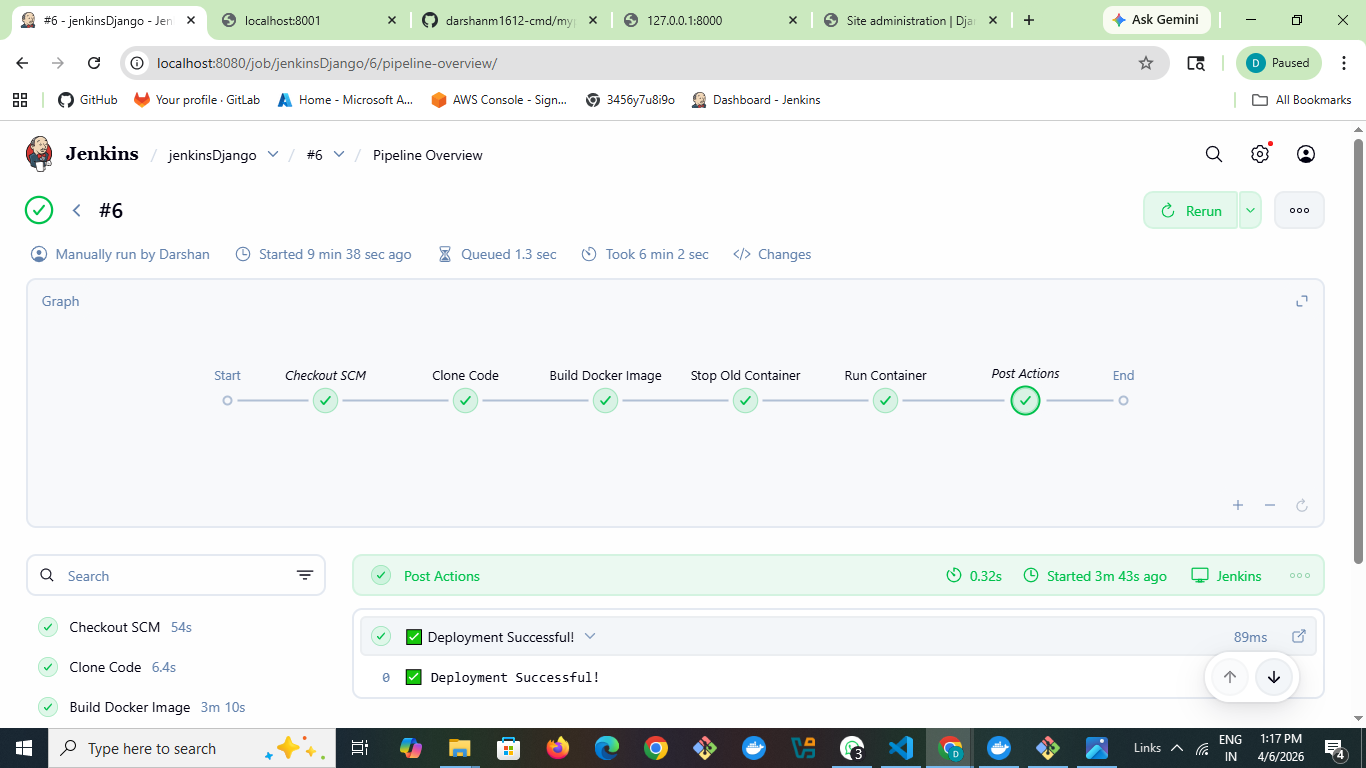
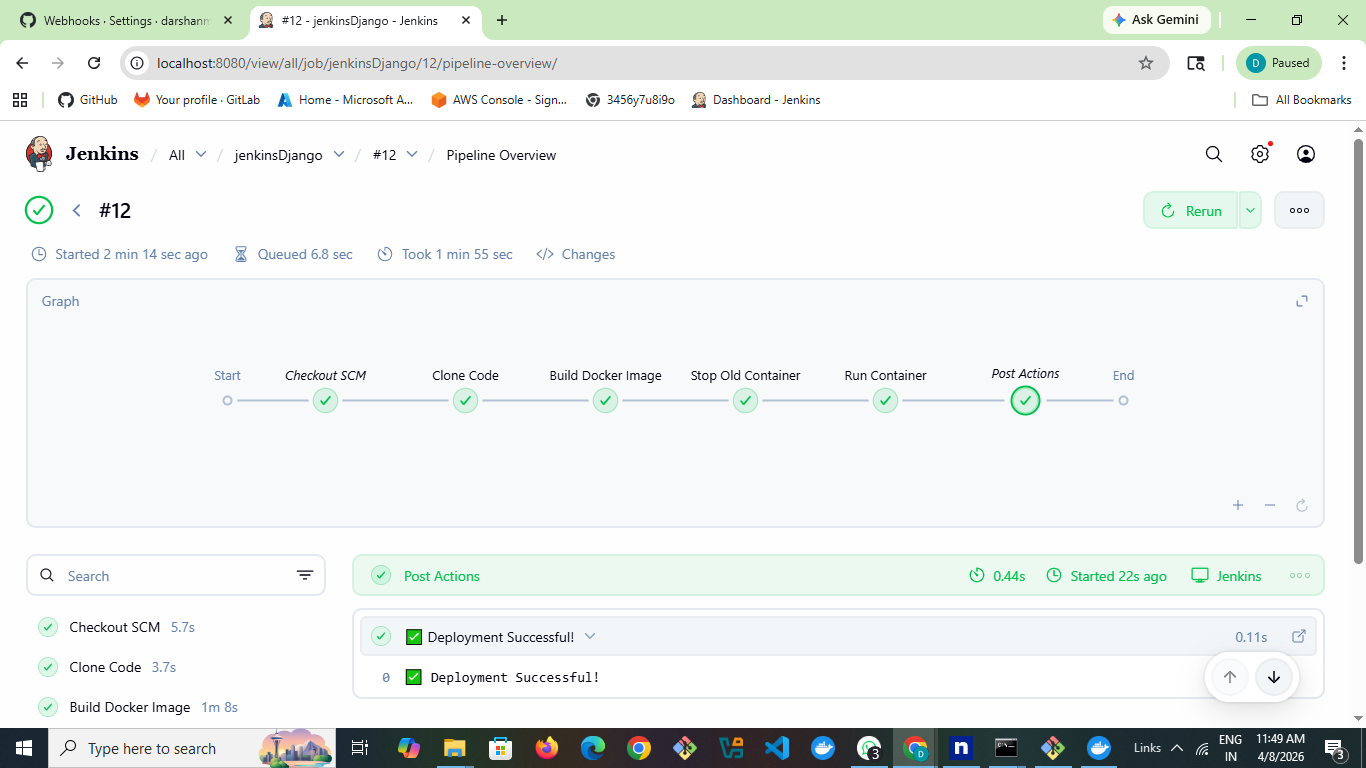
added the webhook image and modify the images

diff --git a/README.md b/README.md
@@ -42,3 +42,6 @@ http://localhost:8001
 
 ### Jenkins Console
 ![Console](screenshots/jenkins-console-output.png)
+
+### Github webhook
+! [Github](screenshots/github-webhook.png) 
